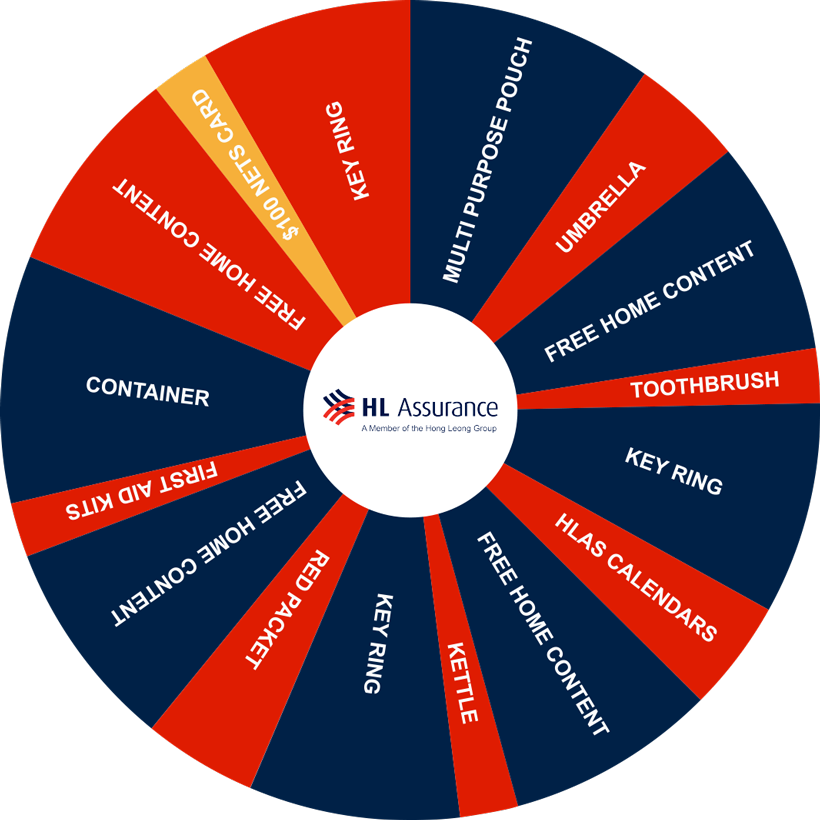
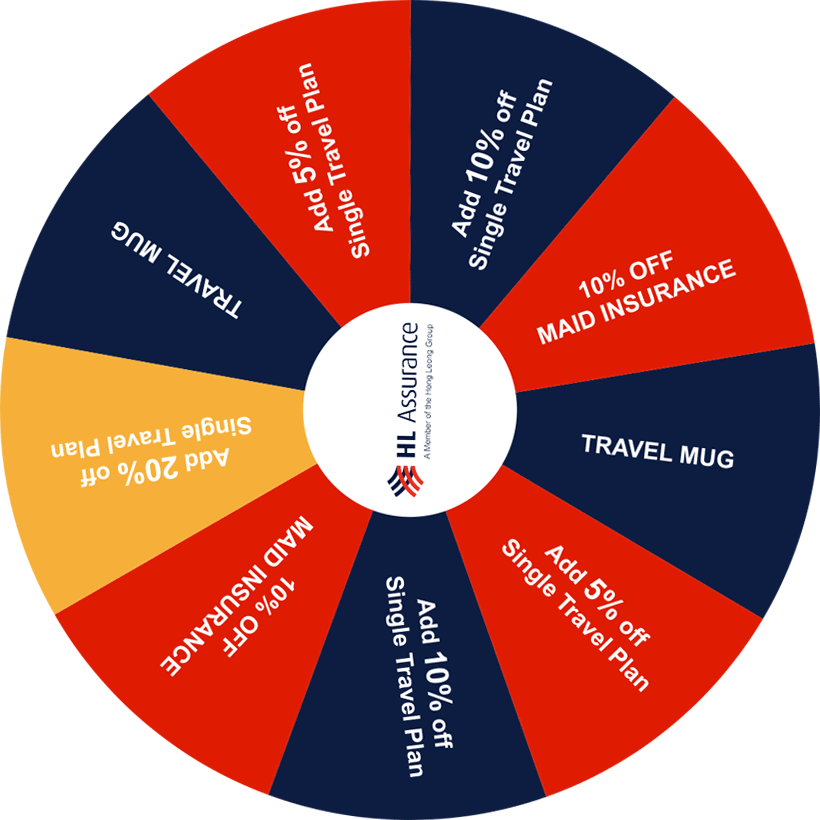
update wheel

diff --git a/index-redeemed.html b/index-redeemed.html
@@ -8,7 +8,7 @@
         :root {
             --size: 820px;
             --padding-top: 500px;
-            --wheel: url(wheel-redeemed-5.png);
+            --wheel: url(wheel-redeemed.png);
         }
 
         * {
@@ -142,53 +142,32 @@
                 const resultValue = Math.abs(angle - 360); // flip rotation direction
                 var prize = '';
                 switch (true) {
-                    case resultValue <= 35:
-                        prize = 'MULTIPURPOSE POUCH';
+                    case resultValue <= 40:
+                        prize = 'Add 10% off Single Travel Plan';
                         break;
-                    case resultValue <= 51:
-                        prize = 'UMBRELLA';
+                    case resultValue <= 80:
+                        prize = '10% OFF MAID INSURANCE';
                         break;
-                    case resultValue <= 81:
-                        prize = 'FREE HOME CONTENT';
+                    case resultValue <= 120:
+                        prize = 'TRAVEL MUG';
                         break;
-                    case resultValue <= 89:
-                        prize = 'TOOTHBRUSH';
+                    case resultValue <= 160:
+                        prize = 'Add 5% off Single Travel Plan';
                         break;
-                    case resultValue <= 119:
-                        prize = 'KEY RING';
+                    case resultValue <= 200:
+                        prize = 'Add 10% off Single Travel Plan';
                         break;
-                    case resultValue <= 135:
-                        prize = 'HLAS CALENDARS';
+                    case resultValue <= 240:
+                        prize = '10% OFF MAID INSURANCE';
                         break;
-                    case resultValue <= 165:
-                        prize = 'FREE HOME CONTENT';
+                    case resultValue <= 280:
+                        prize = 'Add 20% off Single Travel Plan';
                         break;
-                    case resultValue <= 173:
-                        prize = 'KETTLE';
-                        break;
-                    case resultValue <= 203:
-                        prize = 'KEY RING';
-                        break;
-                    case resultValue <= 219:
-                        prize = 'RED PACKETS';
-                        break;
-                    case resultValue <= 249:
-                        prize = 'FREE HOME CONTENT';
-                        break;
-                    case resultValue <= 257:
-                        prize = 'FIRST AID KITS';
-                        break;
-                    case resultValue <= 292:
-                        prize = 'CONTAINER';
-                        break;
-                    case resultValue <= 322:
-                        prize = 'FREE HOME CONTENT';
-                        break;
-                    case resultValue <= 330:
-                        prize = '$100 NETS CARD';
+                    case resultValue <= 320:
+                        prize = 'TRAVEL MUG';
                         break;
                     case resultValue <= 360:
-                        prize = 'KEY RING';
+                        prize = 'Add 5% off Single Travel Plan';
                         break;
                 }
 

diff --git a/index.html b/index.html
@@ -142,53 +142,32 @@
                 const resultValue = Math.abs(angle - 360); // flip rotation direction
                 var prize = '';
                 switch (true) {
-                    case resultValue <= 35:
-                        prize = 'MULTIPURPOSE POUCH';
+                    case resultValue <= 40:
+                        prize = 'Add 10% off Single Travel Plan';
                         break;
-                    case resultValue <= 51:
-                        prize = 'UMBRELLA';
+                    case resultValue <= 80:
+                        prize = '10% OFF MAID INSURANCE';
                         break;
-                    case resultValue <= 81:
-                        prize = 'FREE HOME CONTENT';
+                    case resultValue <= 120:
+                        prize = 'TRAVEL MUG';
                         break;
-                    case resultValue <= 89:
-                        prize = 'TOOTHBRUSH';
+                    case resultValue <= 160:
+                        prize = 'Add 5% off Single Travel Plan';
                         break;
-                    case resultValue <= 119:
-                        prize = 'KEY RING';
+                    case resultValue <= 200:
+                        prize = 'Add 10% off Single Travel Plan';
                         break;
-                    case resultValue <= 135:
-                        prize = 'HLAS CALENDARS';
+                    case resultValue <= 240:
+                        prize = '10% OFF MAID INSURANCE';
                         break;
-                    case resultValue <= 165:
-                        prize = 'FREE HOME CONTENT';
+                    case resultValue <= 280:
+                        prize = 'Add 20% off Single Travel Plan';
                         break;
-                    case resultValue <= 173:
-                        prize = 'KETTLE';
-                        break;
-                    case resultValue <= 203:
-                        prize = 'KEY RING';
-                        break;
-                    case resultValue <= 219:
-                        prize = 'RED PACKETS';
-                        break;
-                    case resultValue <= 249:
-                        prize = 'FREE HOME CONTENT';
-                        break;
-                    case resultValue <= 257:
-                        prize = 'FIRST AID KITS';
-                        break;
-                    case resultValue <= 292:
-                        prize = 'CONTAINER';
-                        break;
-                    case resultValue <= 322:
-                        prize = 'FREE HOME CONTENT';
-                        break;
-                    case resultValue <= 330:
-                        prize = '$100 NETS CARD';
+                    case resultValue <= 320:
+                        prize = 'TRAVEL MUG';
                         break;
                     case resultValue <= 360:
-                        prize = 'KEY RING';
+                        prize = 'Add 5% off Single Travel Plan';
                         break;
                 }
 
